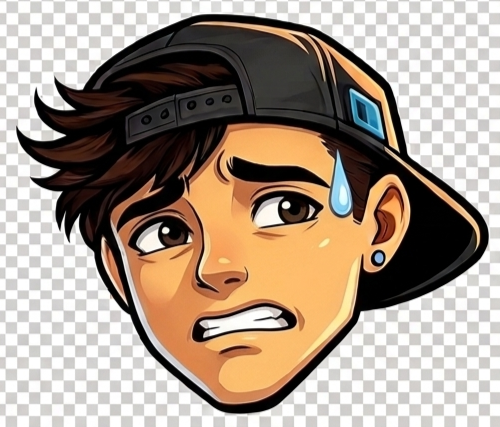
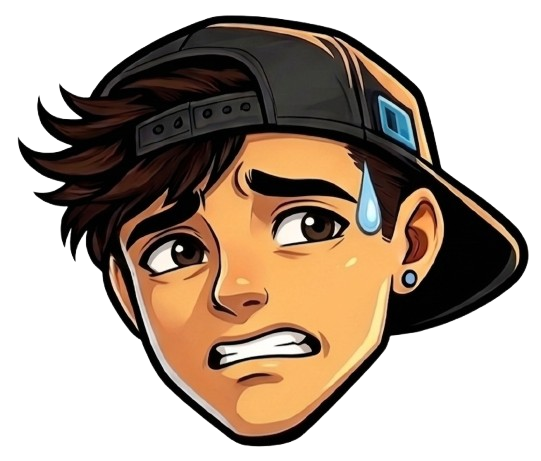
feat: DT4 carrusel de moods con nuevas imágenes de calidad
Reemplaza el grid 2x2 de botones por un carrusel interactivo:
- 4 nuevos PNGs con fondo transparente real (removebg) de alta calidad
- Cara activa grande al centro con glow coloreado según mood
- Vecinas achicadas a los costados (peek effect)
- Drag con mouse y swipe táctil para deslizar
- Click en caras laterales para seleccionar
- Dots indicadores con color por mood
- Hint visual "← deslizá →" para descubribilidad

diff --git a/index.html b/index.html
@@ -284,52 +284,77 @@
     margin-bottom: 14px;
   }
 
-  .mood-grid {
-    display: grid;
-    grid-template-columns: 1fr 1fr;
-    gap: 12px;
-    justify-content: center;
-    margin-bottom: 28px;
+  /* ── Mood Carousel ── */
+  .mood-carousel-outer {
+    position: relative;
+    width: 100%;
     max-width: 340px;
-  }
-  .mood-btn {
-    display: flex;
-    flex-direction: column;
-    align-items: center;
-    gap: 8px;
-    padding: 16px 20px;
-    background: var(--surface);
-    border: 2px solid transparent;
-    border-radius: var(--radius);
-    cursor: pointer;
-    transition: all .2s ease;
-    font-family: 'Nunito', sans-serif;
-    color: var(--text);
-    min-width: 90px;
-  }
-  .mood-btn:hover { transform: translateY(-3px); border-color: var(--accent); background: var(--surface2); }
-  .mood-btn.active { border-color: var(--accent); background: var(--surface2); box-shadow: 0 0 22px var(--accent-glow); }
-  .mood-btn[data-mood="super"].active  { border-color: var(--cyan); box-shadow: 0 0 22px rgba(92,224,216,0.25); }
-  .mood-btn[data-mood="bien"].active   { border-color: var(--green); box-shadow: 0 0 22px var(--green-glow); }
-  .mood-btn[data-mood="masomenos"].active { border-color: var(--orange); box-shadow: 0 0 22px var(--orange-glow); }
-  .mood-btn[data-mood="mal"].active    { border-color: var(--pink); box-shadow: 0 0 22px var(--pink-glow); }
-  .mood-img-wrap {
-    width: 100px; height: 100px;
-    border-radius: 50%;
+    height: 160px;
     overflow: hidden;
-    flex-shrink: 0;
-    border: 3px solid var(--surface3);
-    background: var(--surface);
+    cursor: grab;
+    touch-action: pan-y;
+    margin-bottom: 10px;
+    -webkit-tap-highlight-color: transparent;
+    user-select: none;
   }
-  .mood-toto-img {
+  .mood-carousel-outer:active { cursor: grabbing; }
+  .mood-carousel-ring {
+    position: absolute;
+    top: 50%;
+    left: 50%;
+    width: 140px;
+    height: 140px;
+    border-radius: 50%;
+    transform: translate(-50%, -50%);
+    transition: background .35s ease, box-shadow .35s ease;
+    pointer-events: none;
+    z-index: 0;
+  }
+  .mood-slide {
+    position: absolute;
+    top: 50%;
+    transition: left .32s cubic-bezier(.25,.46,.45,.94),
+                opacity .32s ease,
+                transform .32s cubic-bezier(.25,.46,.45,.94);
+    z-index: 1;
+  }
+  .mood-slide.mood-active { z-index: 2; }
+  .mood-slide img {
     width: 100%;
     height: 100%;
     object-fit: contain;
-    transition: transform 0.2s ease;
+    filter: drop-shadow(0 6px 18px rgba(0,0,0,0.45));
+    pointer-events: none;
+    display: block;
   }
-  .mood-btn.active .mood-img-wrap { border-color: var(--accent); }
-  .mood-btn.active .mood-toto-img { transform: scale(1.3); }
-  .mood-label { font-size: 0.78rem; font-weight: 800; }
+  .mood-carousel-label {
+    text-align: center;
+    font-family: 'Baloo 2', cursive;
+    font-size: 1.15rem;
+    font-weight: 800;
+    color: var(--text);
+    margin-bottom: 10px;
+    transition: color .3s ease;
+    min-height: 1.5em;
+  }
+  .mood-carousel-dots {
+    display: flex;
+    justify-content: center;
+    gap: 9px;
+    margin-bottom: 24px;
+  }
+  .mcd {
+    width: 9px; height: 9px;
+    border-radius: 50%;
+    background: var(--surface3);
+    cursor: pointer;
+    transition: background .3s ease, transform .2s ease;
+  }
+  .mcd.active { transform: scale(1.4); }
+  .mcd[data-idx="0"].active { background: var(--cyan); }
+  .mcd[data-idx="1"].active { background: var(--green); }
+  .mcd[data-idx="2"].active { background: var(--orange); }
+  .mcd[data-idx="3"].active { background: var(--pink); }
 
   .btn-warmup-go {
     background: linear-gradient(135deg, #7c6fff, #9b6dff);
@@ -1128,25 +1153,21 @@
       </select>
     </div>
 
-    <div class="warmup-mood-label">¿Cómo estás hoy?</div>
+    <div class="warmup-mood-label">¿Cómo estás hoy? <span style="font-size:0.72rem;color:var(--text-dim);font-weight:600">← deslizá →</span></div>
 
-    <div class="mood-grid">
-      <button class="mood-btn" data-mood="super" onclick="pickMood(this,'super')">
-        <div class="mood-img-wrap"><img src="/toto-super.png" class="mood-toto-img" alt="Toto súper"></div>
-        <span class="mood-label">¡Súper!</span>
-      </button>
-      <button class="mood-btn active" data-mood="bien" onclick="pickMood(this,'bien')">
-        <div class="mood-img-wrap"><img src="/toto-piola.png" class="mood-toto-img" alt="Toto piola"></div>
-        <span class="mood-label">Piola</span>
-      </button>
-      <button class="mood-btn" data-mood="masomenos" onclick="pickMood(this,'masomenos')">
-        <div class="mood-img-wrap"><img src="/toto-maso.png" class="mood-toto-img" alt="Toto maso"></div>
-        <span class="mood-label">Maso</span>
-      </button>
-      <button class="mood-btn" data-mood="mal" onclick="pickMood(this,'mal')">
-        <div class="mood-img-wrap"><img src="/toto-para-atras.png" class="mood-toto-img" alt="Toto para atrás"></div>
-        <span class="mood-label">Para atrás</span>
-      </button>
+    <div class="mood-carousel-outer" id="moodCarouselOuter">
+      <div class="mood-carousel-ring" id="moodCarouselRing"></div>
+      <div class="mood-slide" data-idx="0" data-mood="super"><img src="/toto-super.png" alt="Súper"></div>
+      <div class="mood-slide" data-idx="1" data-mood="bien"><img src="/toto-piola.png" alt="Piola"></div>
+      <div class="mood-slide" data-idx="2" data-mood="masomenos"><img src="/toto-maso.png" alt="Más o menos"></div>
+      <div class="mood-slide" data-idx="3" data-mood="mal"><img src="/toto-para-atras.png" alt="Para atrás"></div>
+    </div>
+    <div class="mood-carousel-label" id="moodCarouselLabel">Piola 😊</div>
+    <div class="mood-carousel-dots" id="moodCarouselDots">
+      <span class="mcd" data-idx="0"></span>
+      <span class="mcd" data-idx="1"></span>
+      <span class="mcd" data-idx="2"></span>
+      <span class="mcd" data-idx="3"></span>
     </div>
 
     <button class="btn-warmup-go" onclick="finishWarmup()">
@@ -1970,6 +1991,9 @@ function detectPersonalTopic(msg) {
   }
 }
 
+// Init carousel de moods
+setTimeout(initMoodCarousel, 0);
+
 // Recuperar datos guardados si existen
 const savedName = localStorage.getItem('toto_nombre');
 if (savedName) {
@@ -2024,10 +2048,105 @@ function hideErr()    { hide($('errMsg')); }
 /* ════════════════════════════════════════════════════
    WARMUP
 ════════════════════════════════════════════════════ */
+/* ── Mood Carousel ── */
+const MOOD_DATA = [
+  { mood: 'super',     label: '¡Súper! ⭐',      ring: 'rgba(92,224,216,0.28)',  glow: '0 0 40px rgba(92,224,216,0.4)' },
+  { mood: 'bien',      label: 'Piola 😊',         ring: 'rgba(61,232,160,0.28)',  glow: '0 0 40px rgba(61,232,160,0.4)' },
+  { mood: 'masomenos', label: 'Más o menos 😅',   ring: 'rgba(255,179,71,0.28)',  glow: '0 0 40px rgba(255,179,71,0.4)' },
+  { mood: 'mal',       label: 'Para atrás 😔',    ring: 'rgba(255,107,138,0.28)', glow: '0 0 40px rgba(255,107,138,0.4)' },
+];
+let _moodIdx = 1; // arranca en 'bien'
+
+function updateMoodCarousel(idx) {
+  _moodIdx = Math.max(0, Math.min(MOOD_DATA.length - 1, idx));
+  const outer = document.getElementById('moodCarouselOuter');
+  if (!outer) return;
+  const cw = outer.offsetWidth || 320;
+  const cx = cw / 2;
+  const ACTIVE_SZ = 134;
+  const PEEK_SZ   = 80;
+  const PEEK_OFF  = Math.round(cw * 0.32);
+
+  document.querySelectorAll('.mood-slide').forEach(slide => {
+    const i   = parseInt(slide.dataset.idx);
+    const pos = i - _moodIdx;
+    const isActive = pos === 0;
+    const isPeek   = Math.abs(pos) === 1;
+    const sz  = isActive ? ACTIVE_SZ : PEEK_SZ;
+    const x   = cx + pos * PEEK_OFF - sz / 2;
+    const op  = isActive ? 1 : isPeek ? 0.48 : 0;
+    const sc  = isActive ? 1 : 0.62;
+    slide.style.left      = x + 'px';
+    slide.style.width     = sz + 'px';
+    slide.style.height    = sz + 'px';
+    slide.style.opacity   = op;
+    slide.style.transform = `translateY(-50%) scale(${sc})`;
+    slide.style.pointerEvents = Math.abs(pos) <= 1 ? 'auto' : 'none';
+    slide.style.zIndex    = isActive ? 2 : 1;
+    slide.classList.toggle('mood-active', isActive);
+  });
+
+  const m = MOOD_DATA[_moodIdx];
+  const ring = document.getElementById('moodCarouselRing');
+  if (ring) { ring.style.background = m.ring; ring.style.boxShadow = m.glow; }
+  const lbl = document.getElementById('moodCarouselLabel');
+  if (lbl) lbl.textContent = m.label;
+  document.querySelectorAll('.mcd').forEach((d, i) => d.classList.toggle('active', i === _moodIdx));
+  S.mood = m.mood;
+}
+
+function initMoodCarousel() {
+  updateMoodCarousel(1);
+  const outer = document.getElementById('moodCarouselOuter');
+  if (!outer) return;
+
+  // Click on side slides to select
+  outer.addEventListener('click', e => {
+    const slide = e.target.closest('.mood-slide');
+    if (!slide) return;
+    const i = parseInt(slide.dataset.idx);
+    if (!isNaN(i) && i !== _moodIdx) updateMoodCarousel(i);
+  });
+
+  // Dot clicks
+  document.querySelectorAll('.mcd').forEach(dot => {
+    dot.addEventListener('click', () => updateMoodCarousel(parseInt(dot.dataset.idx)));
+  });
+
+  // Mouse drag
+  let startX = 0, dragging = false;
+  outer.addEventListener('mousedown', e => {
+    startX = e.clientX; dragging = true;
+    outer.style.cursor = 'grabbing';
+    e.preventDefault();
+  });
+  document.addEventListener('mousemove', e => {
+    if (!dragging) return;
+    const d = e.clientX - startX;
+    if (Math.abs(d) > 48) {
+      updateMoodCarousel(d < 0 ? _moodIdx + 1 : _moodIdx - 1);
+      startX = e.clientX;
+    }
+  });
+  document.addEventListener('mouseup', () => {
+    dragging = false;
+    const o = document.getElementById('moodCarouselOuter');
+    if (o) o.style.cursor = 'grab';
+  });
+
+  // Touch swipe
+  let touchX = 0;
+  outer.addEventListener('touchstart', e => { touchX = e.touches[0].clientX; }, { passive: true });
+  outer.addEventListener('touchend', e => {
+    const d = e.changedTouches[0].clientX - touchX;
+    if (Math.abs(d) > 40) updateMoodCarousel(d < 0 ? _moodIdx + 1 : _moodIdx - 1);
+  }, { passive: true });
+}
+
+// pickMood mantenido como alias para compatibilidad
 function pickMood(btn, mood) {
-  document.querySelectorAll('.mood-btn').forEach(b => b.classList.remove('active'));
-  btn.classList.add('active');
-  S.mood = mood;
+  const idx = MOOD_DATA.findIndex(m => m.mood === mood);
+  if (idx >= 0) updateMoodCarousel(idx);
 }
 
 function finishWarmup() {
